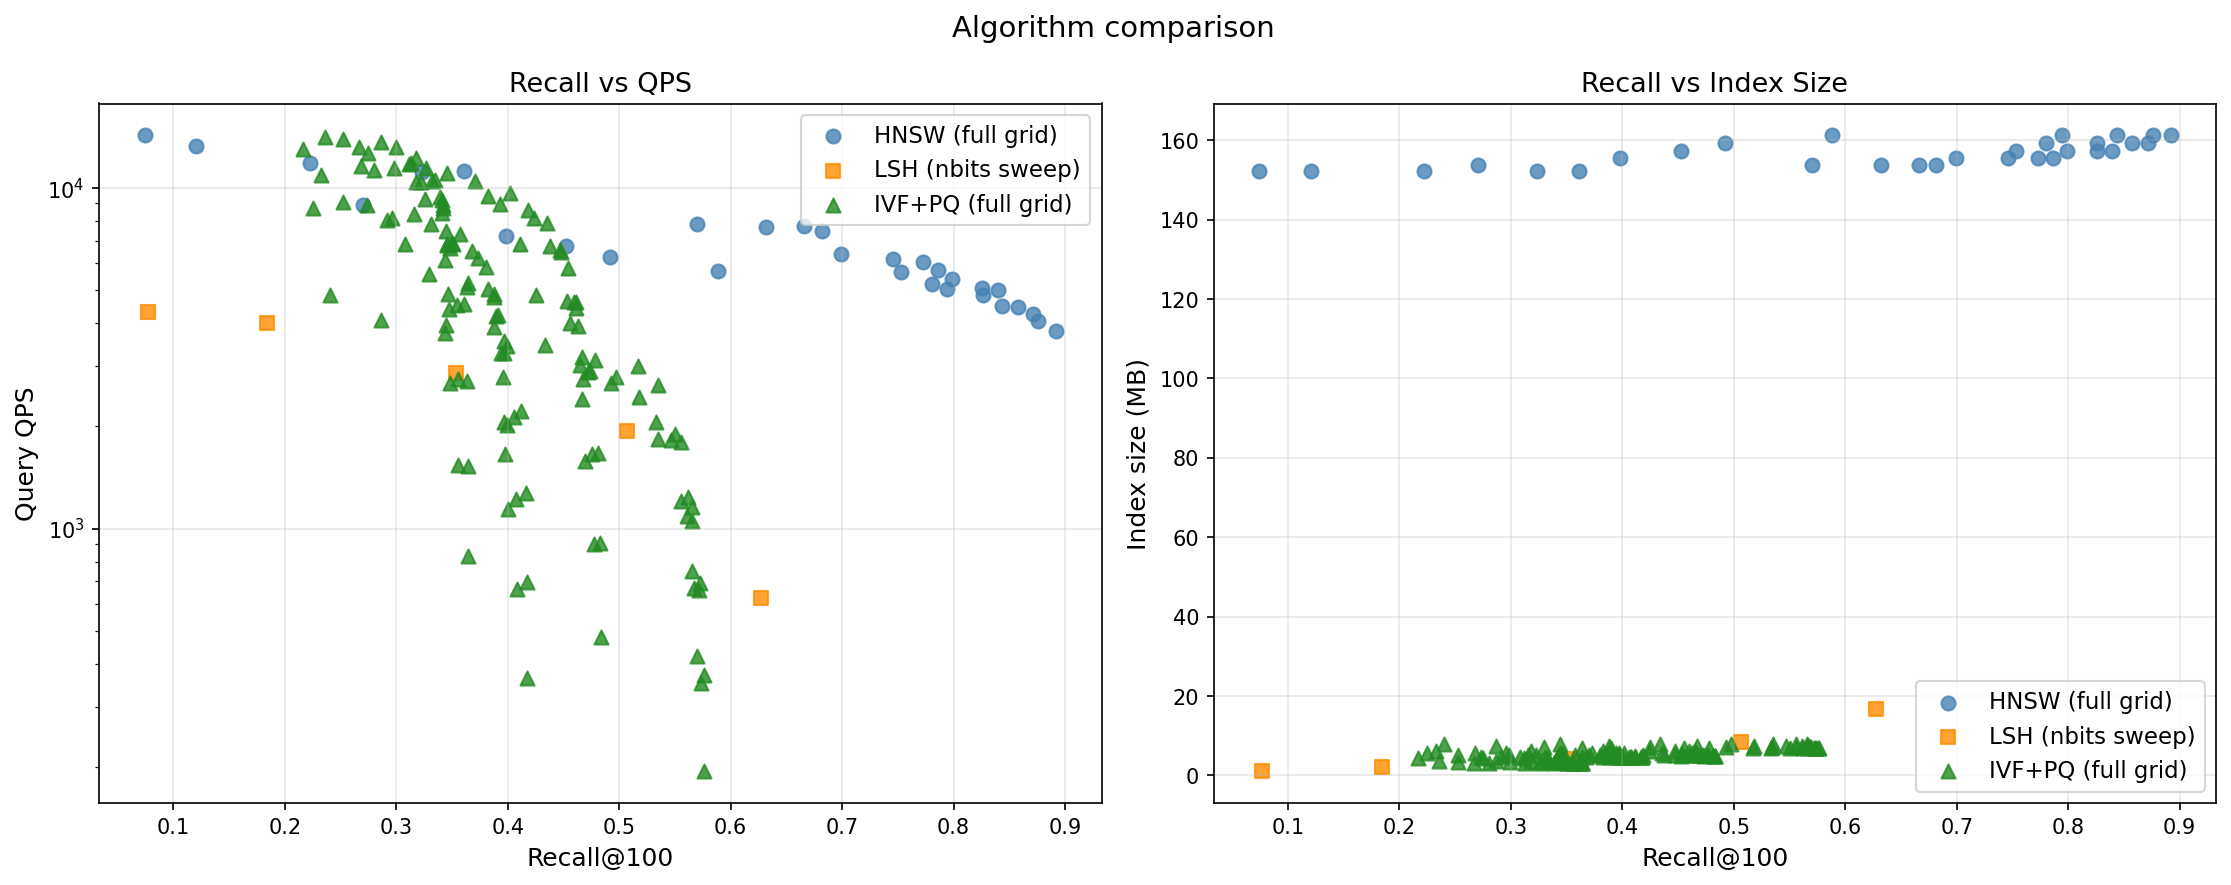
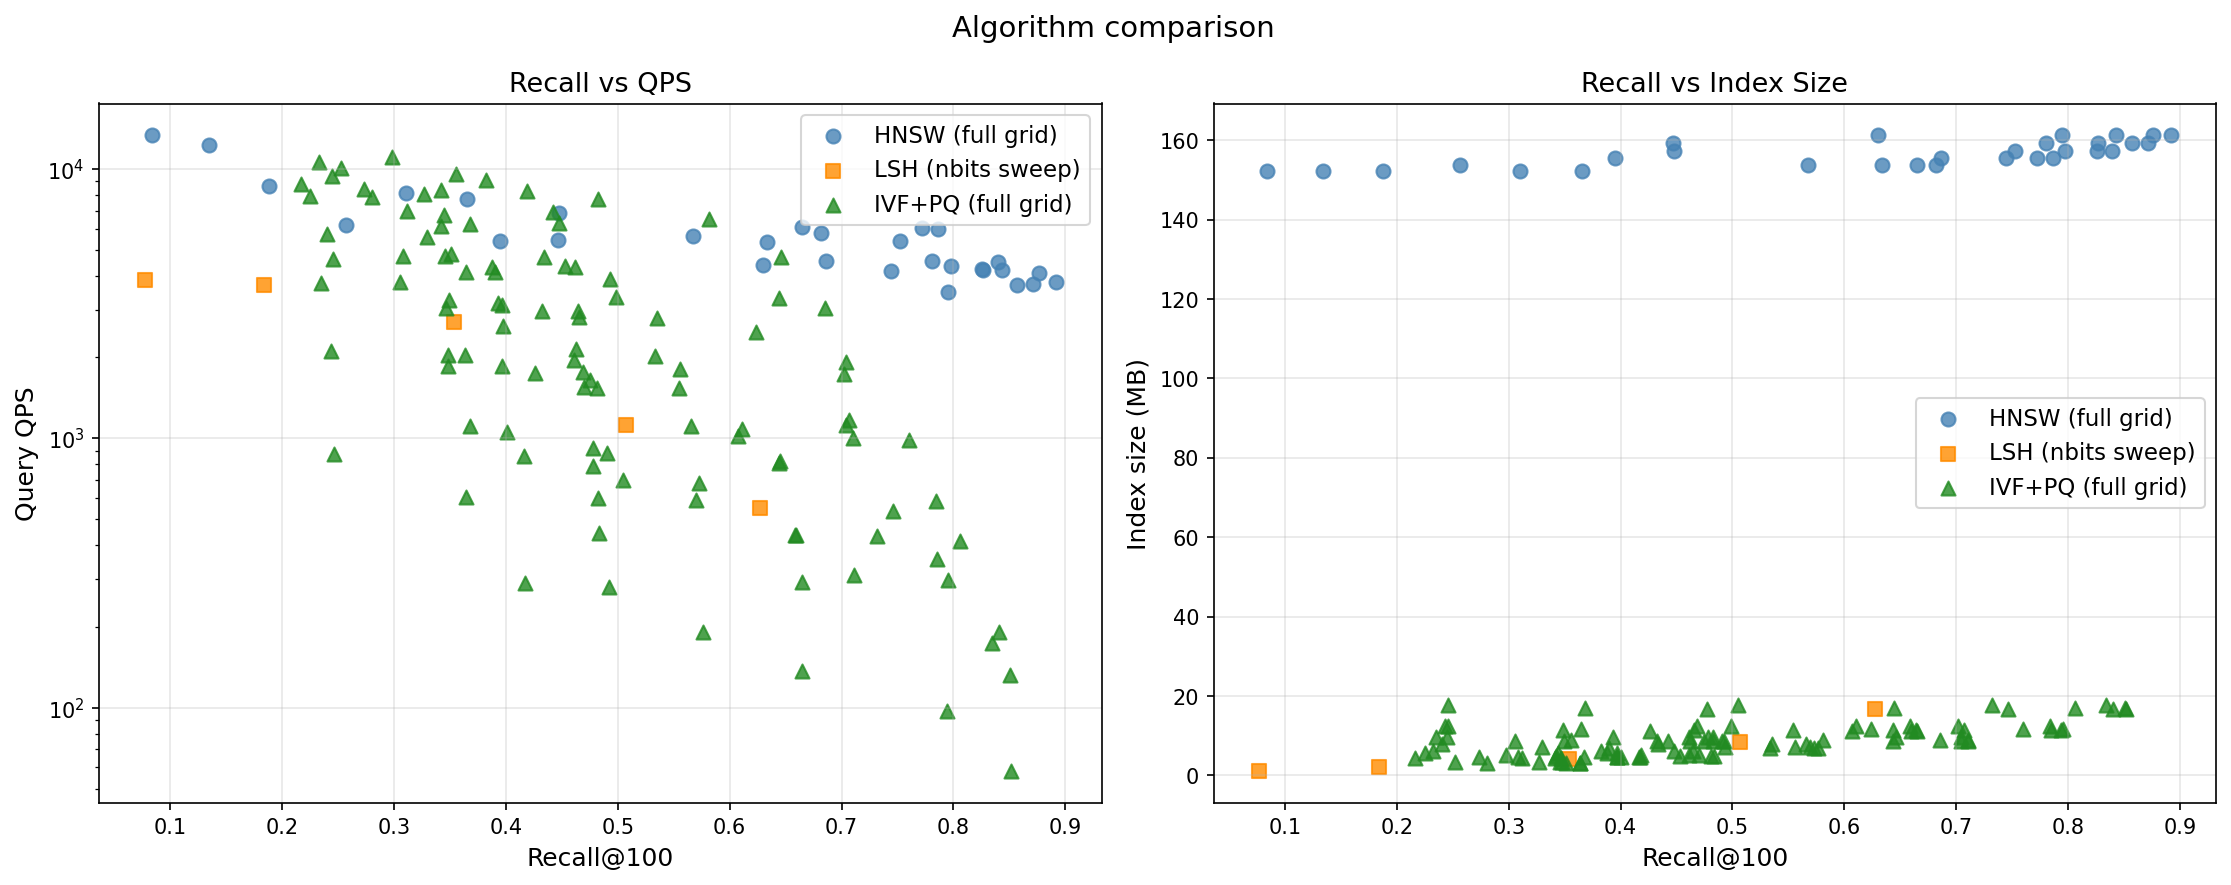
tmp

diff --git a/02_benchmark.py b/02_benchmark.py
@@ -1,30 +1,122 @@
+import numpy as np
+import matplotlib.pyplot as plt
 import os
+import tempfile
 import time
+from typing import Any
 
+import faiss
+import hnswlib
 import matplotlib
 matplotlib.use("Agg")
-import matplotlib.pyplot as plt
-import numpy as np
-
-from common import (
-    build_hnsw, build_index_set, build_ivfpq, build_lsh,
-    load_data, measure_size_mb, recall_at_k,
-)
 
 INDEX_SIZE = 500_000   # effectively uses the full corpus (~185k nouns)
-TOP_K      = 100
-SEED       = 42
+TOP_K = 100
+SEED = 42
 GRAPHS_DIR = "graphs"
 
-HNSW_M_VALUES  = [2, 4, 6, 8, 10, 12]
+HNSW_M_VALUES = [2, 4, 6, 8, 10, 12]
 HNSW_EF_VALUES = [10, 20, 30, 50, 80]
 
-LSH_NBITS_VALUES = [64, 128, 256, 512, 1024]
+LSH_NBITS_VALUES = [64, 128, 256, 512, 1024, 2048]
 
-IVFPQ_NLIST_VALUES  = [64, 128, 256, 512, 1024]
-IVFPQ_NPROBE_VALUES = [1, 2, 4, 8, 16, 32, 64]
-IVFPQ_M_PQ_VALUES   = [15, 30]
-IVFPQ_NBITS_VALUES  = [8, 10]
+IVFPQ_NLIST_VALUES = [64, 256, 1024]
+IVFPQ_NPROBE_VALUES = [1, 4, 16, 64]
+IVFPQ_M_PQ_VALUES = [15, 30, 60]
+IVFPQ_NBITS_VALUES = [8, 10, 12]
+
+
+def build_hnsw(vectors: np.ndarray, cfg: dict[str, Any]) -> hnswlib.Index:
+    dim = vectors.shape[1]
+    idx = hnswlib.Index(space="l2", dim=dim)
+    idx.init_index(max_elements=len(vectors),
+                   ef_construction=cfg["ef_construction"], M=cfg["m"])
+    idx.add_items(vectors)
+    idx.set_ef(cfg["ef_query"])
+    return idx
+
+
+def build_lsh(vectors: np.ndarray, cfg: dict[str, Any]) -> faiss.IndexLSH:
+    idx = faiss.IndexLSH(vectors.shape[1], cfg["nbits"])
+    idx.add(vectors)
+    return idx
+
+
+def build_ivfpq(vectors: np.ndarray, cfg: dict[str, Any]) -> faiss.IndexIVFPQ:
+    dim = vectors.shape[1]
+    quantizer = faiss.IndexFlatL2(dim)
+    idx = faiss.IndexIVFPQ(
+        quantizer, dim, cfg["nlist"], cfg["m_pq"], cfg["nbits"])
+    idx.train(vectors)
+    idx.add(vectors)
+    idx.nprobe = cfg["nprobe"]
+    return idx
+
+
+def measure_size_mb(index: Any) -> float:
+    if isinstance(index, faiss.Index):
+        return faiss.serialize_index(index).nbytes / 1024 / 1024
+    if isinstance(index, hnswlib.Index):
+        with tempfile.NamedTemporaryFile(suffix=".bin", delete=False) as f:
+            path = f.name
+        try:
+            index.save_index(path)
+            return os.path.getsize(path) / 1024 / 1024
+        finally:
+            os.unlink(path)
+    return 0.0
+
+
+def recall_at_k(approx: list[int], exact: np.ndarray, k: int) -> float:
+    if not approx:
+        return 0.0
+    return len(set(approx[:k]) & set(exact[:k].tolist())) / k
+
+
+def load_data() -> tuple[np.ndarray, np.ndarray, np.ndarray, np.ndarray]:
+    for fname in ("data/corpus_vectors.npy", "data/corpus_words.npy", "data/query_indices.npy", "data/ground_truth.npy"):
+        if not os.path.exists(fname):
+            raise FileNotFoundError(
+                f"{fname} not found - run 01_prepare_data.py first")
+    corpus_vectors = np.load("data/corpus_vectors.npy")
+    corpus_words = np.load("data/corpus_words.npy", allow_pickle=True)
+    query_indices = np.load("data/query_indices.npy")
+    ground_truth = np.load("data/ground_truth.npy")
+    return corpus_vectors, corpus_words, query_indices, ground_truth
+
+
+def build_index_set(
+    corpus_vectors: np.ndarray,
+    query_indices: np.ndarray,
+    index_size: int,
+    top_k: int,
+    ground_truth: np.ndarray,
+    rng: np.random.Generator,
+) -> tuple[np.ndarray, np.ndarray, np.ndarray, np.ndarray, np.ndarray, list[np.ndarray]]:
+    n_corpus = len(corpus_vectors)
+    index_size = min(index_size, n_corpus)
+
+    query_set = set(query_indices.tolist())
+    other_ids = np.array([i for i in range(n_corpus) if i not in query_set])
+    n_extra = min(index_size - len(query_indices), len(other_ids))
+    extra_ids = rng.choice(other_ids, size=n_extra, replace=False)
+    index_corpus_ids = np.sort(np.concatenate([query_indices, extra_ids]))
+
+    index_vectors = corpus_vectors[index_corpus_ids]
+
+    corpus_to_local = np.full(n_corpus, -1, dtype=np.int64)
+    corpus_to_local[index_corpus_ids] = np.arange(
+        len(index_corpus_ids), dtype=np.int64)
+
+    query_local_pos = corpus_to_local[query_indices]
+    query_vectors = index_vectors[query_local_pos]
+
+    gt_local = [
+        corpus_to_local[ground_truth[i]
+                        [corpus_to_local[ground_truth[i]] >= 0]][:top_k]
+        for i in range(len(query_indices))
+    ]
+    return index_vectors, index_corpus_ids, corpus_to_local, query_local_pos, query_vectors, gt_local
 
 
 def evaluate_hnsw(index, query_vectors, query_local_pos, gt_local, k):
@@ -45,13 +137,15 @@ def evaluate_hnsw(index, query_vectors, query_local_pos, gt_local, k):
             fallback_hits += 1
             neighbours = []
         else:
-            neighbours = [x for x in labels[0].tolist() if x != int(query_local_pos[i])][:k]
+            neighbours = [x for x in labels[0].tolist() if x !=
+                          int(query_local_pos[i])][:k]
             if len(neighbours) < k:
                 fallback_hits += 1
         recalls.append(recall_at_k(neighbours, gt_local[i], k))
     elapsed = time.perf_counter() - t0
     if fallback_hits:
-        print(f"    note: hnsw fallback used for {fallback_hits} / {len(query_vectors)} queries")
+        print(
+            f"    note: hnsw fallback used for {fallback_hits} / {len(query_vectors)} queries")
     return float(np.mean(recalls)), len(query_vectors) / elapsed
 
 
@@ -60,7 +154,8 @@ def evaluate_faiss(index, query_vectors, query_local_pos, gt_local, k):
     t0 = time.perf_counter()
     for i, qv in enumerate(query_vectors):
         _, I = index.search(qv.reshape(1, -1), k + 1)
-        neighbours = [int(x) for x in I[0] if x >= 0 and x != int(query_local_pos[i])][:k]
+        neighbours = [int(x) for x in I[0] if x >= 0 and x !=
+                      int(query_local_pos[i])][:k]
         recalls.append(recall_at_k(neighbours, gt_local[i], k))
     elapsed = time.perf_counter() - t0
     return float(np.mean(recalls)), len(query_vectors) / elapsed
@@ -99,8 +194,9 @@ def plot_comparison(hnsw_res, lsh_res, ivfpq_res, path):
     ax = axes[0]
     for res, label, color, marker in series:
         recalls = [r["recall"] for r in res]
-        qps     = [r["query_qps"] for r in res]
-        ax.scatter(recalls, qps, label=label, color=color, marker=marker, s=45, alpha=0.8)
+        qps = [r["query_qps"] for r in res]
+        ax.scatter(recalls, qps, label=label, color=color,
+                   marker=marker, s=45, alpha=0.8)
     ax.set_xlabel("Recall@100", fontsize=12)
     ax.set_ylabel("Query QPS", fontsize=12)
     ax.set_yscale("log")
@@ -112,8 +208,9 @@ def plot_comparison(hnsw_res, lsh_res, ivfpq_res, path):
     ax = axes[1]
     for res, label, color, marker in series:
         recalls = [r["recall"] for r in res]
-        sizes   = [r["size_mb"] for r in res]
-        ax.scatter(recalls, sizes, label=label, color=color, marker=marker, s=45, alpha=0.8)
+        sizes = [r["size_mb"] for r in res]
+        ax.scatter(recalls, sizes, label=label, color=color,
+                   marker=marker, s=45, alpha=0.8)
     ax.set_xlabel("Recall@100", fontsize=12)
     ax.set_ylabel("Index size (MB)", fontsize=12)
     ax.legend(fontsize=11)
@@ -143,14 +240,16 @@ def main():
 
     corpus_vectors, _, query_indices, ground_truth = load_data()
     n_corpus, dim = corpus_vectors.shape
-    print(f"corpus: {n_corpus} × {dim}  |  queries: {len(query_indices)}  |  k={TOP_K}")
+    print(
+        f"corpus: {n_corpus} × {dim}  |  queries: {len(query_indices)}  |  k={TOP_K}")
 
     index_vectors, index_corpus_ids, _, query_local_pos, query_vectors, gt_local = build_index_set(
         corpus_vectors, query_indices, INDEX_SIZE, TOP_K, ground_truth, rng
     )
     n_index = len(index_corpus_ids)
     n_extra = n_index - len(query_indices)
-    print(f"index: {n_index} vectors  ({len(query_indices)} query + {n_extra} random)\n")
+    print(
+        f"index: {n_index} vectors  ({len(query_indices)} query + {n_extra} random)\n")
 
     # ── HNSW: full (m, ef) grid ──────────────────────────────────────────────────
     print("=== HNSW: full grid (m x ef_construction, ef_query auto >= k+1) ===")
@@ -164,14 +263,16 @@ def main():
             t0 = time.perf_counter()
             idx = build_hnsw(index_vectors, cfg)
             build_s = time.perf_counter() - t0
-            recall, qps = evaluate_hnsw(idx, query_vectors, query_local_pos, gt_local, TOP_K)
+            recall, qps = evaluate_hnsw(
+                idx, query_vectors, query_local_pos, gt_local, TOP_K)
             size_mb = measure_size_mb(idx)
             print(
                 f"  m={m:<3} ef_c={ef:<4} ef_q={ef_query:<4}  built={build_s:.1f}s  "
                 f"recall={recall:.3f}  qps={qps:.0f}  size={size_mb:.1f}MB"
             )
             hnsw_grid_results.append(
-                {"m": m, "ef": ef, "build_s": build_s, "recall": recall, "query_qps": qps, "size_mb": size_mb}
+                {"m": m, "ef": ef, "build_s": build_s, "recall": recall,
+                    "query_qps": qps, "size_mb": size_mb}
             )
     # ── LSH: nbits sweep ─────────────────────────────────────────────────────────
     print("=== LSH: nbits sweep ===")
@@ -181,11 +282,13 @@ def main():
         t0 = time.perf_counter()
         idx = build_lsh(index_vectors, cfg)
         build_s = time.perf_counter() - t0
-        recall, qps = evaluate_faiss(idx, query_vectors, query_local_pos, gt_local, TOP_K)
+        recall, qps = evaluate_faiss(
+            idx, query_vectors, query_local_pos, gt_local, TOP_K)
         size_mb = measure_size_mb(idx)
-        print(f"  nbits={nbits:<6}  built={build_s:.2f}s  recall={recall:.3f}  qps={qps:.0f}  size={size_mb:.1f}MB")
+        print(
+            f"  nbits={nbits:<6}  built={build_s:.2f}s  recall={recall:.3f}  qps={qps:.0f}  size={size_mb:.1f}MB")
         lsh_nbits_results.append({"nbits": nbits, "build_s": build_s, "recall": recall,
-                                   "query_qps": qps, "size_mb": size_mb})
+                                  "query_qps": qps, "size_mb": size_mb})
     print_table(lsh_nbits_results, "nbits", "nbits")
     plot_sweep(LSH_NBITS_VALUES, lsh_nbits_results, "nbits",
                "LSH: nbits sweep", f"{GRAPHS_DIR}/lsh_nbits_sweep.png")
@@ -197,16 +300,20 @@ def main():
         for nbits in IVFPQ_NBITS_VALUES:
             print(f"  -- m_pq={m_pq}, nbits={nbits}")
             for nlist in IVFPQ_NLIST_VALUES:
-                base_cfg = {"nlist": nlist, "m_pq": m_pq, "nbits": nbits, "nprobe": 1}
+                base_cfg = {"nlist": nlist, "m_pq": m_pq,
+                            "nbits": nbits, "nprobe": 1}
                 t0 = time.perf_counter()
                 ivfpq_base = build_ivfpq(index_vectors, base_cfg)
                 base_build_s = time.perf_counter() - t0
                 base_size_mb = measure_size_mb(ivfpq_base)
-                print(f"    nlist={nlist:<5} base built={base_build_s:.2f}s  size={base_size_mb:.1f}MB")
+                print(
+                    f"    nlist={nlist:<5} base built={base_build_s:.2f}s  size={base_size_mb:.1f}MB")
                 for nprobe in IVFPQ_NPROBE_VALUES:
                     ivfpq_base.nprobe = nprobe
-                    recall, qps = evaluate_faiss(ivfpq_base, query_vectors, query_local_pos, gt_local, TOP_K)
-                    print(f"      nprobe={nprobe:<4} recall={recall:.3f} qps={qps:.0f}")
+                    recall, qps = evaluate_faiss(
+                        ivfpq_base, query_vectors, query_local_pos, gt_local, TOP_K)
+                    print(
+                        f"      nprobe={nprobe:<4} recall={recall:.3f} qps={qps:.0f}")
                     ivfpq_grid_results.append(
                         {
                             "m_pq": m_pq,

diff --git a/01_prepare_data.py b/01_prepare_data.py
@@ -6,7 +6,6 @@ import numpy as np
 NUM_QUERIES = 10_000
 TOP_K       = 100
 CORPUS_SIZE = "all"
-SEED        = 42
 BATCH_SIZE  = 500
 
 
@@ -79,7 +78,7 @@ def exact_knn_euclidean(corpus: np.ndarray, query_indices: np.ndarray,
 
 def main():
     corpus_size = None if CORPUS_SIZE == "all" else int(CORPUS_SIZE)
-    rng = np.random.default_rng(SEED)
+    rng = np.random.default_rng(1)
 
     os.makedirs("data", exist_ok=True)
 
